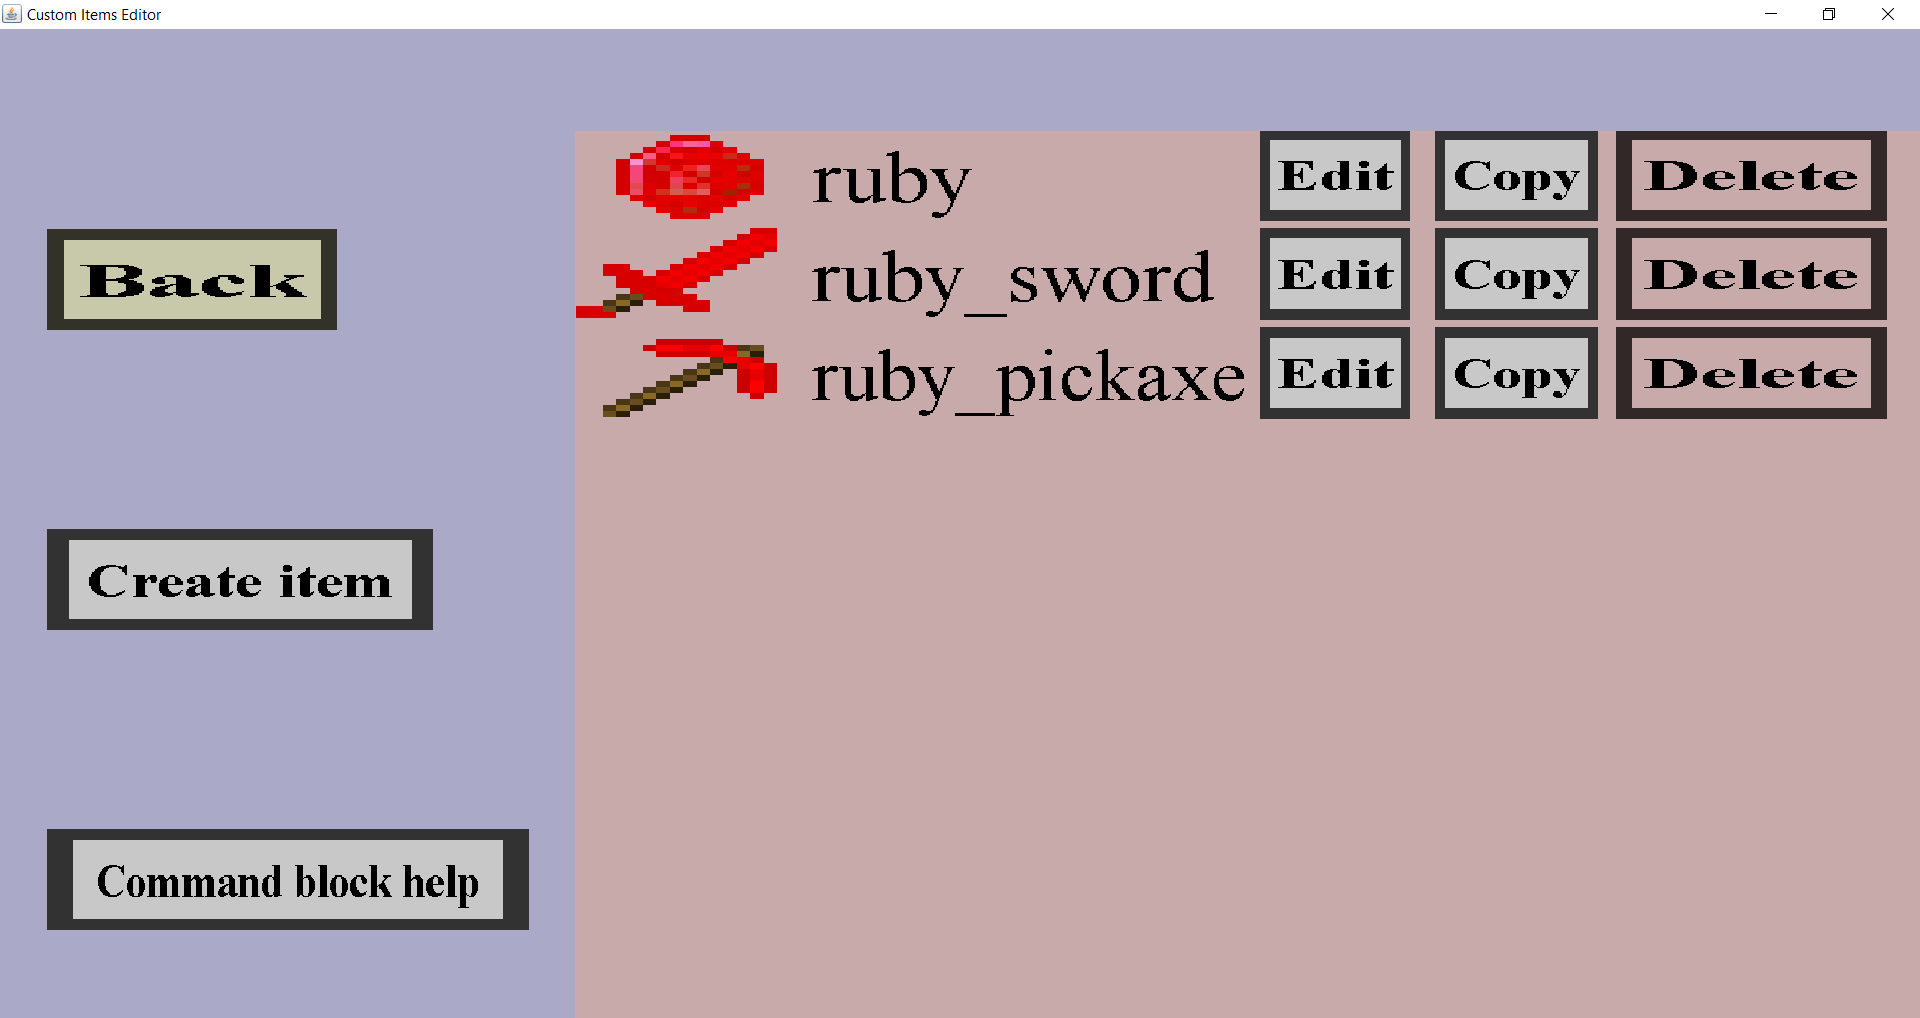
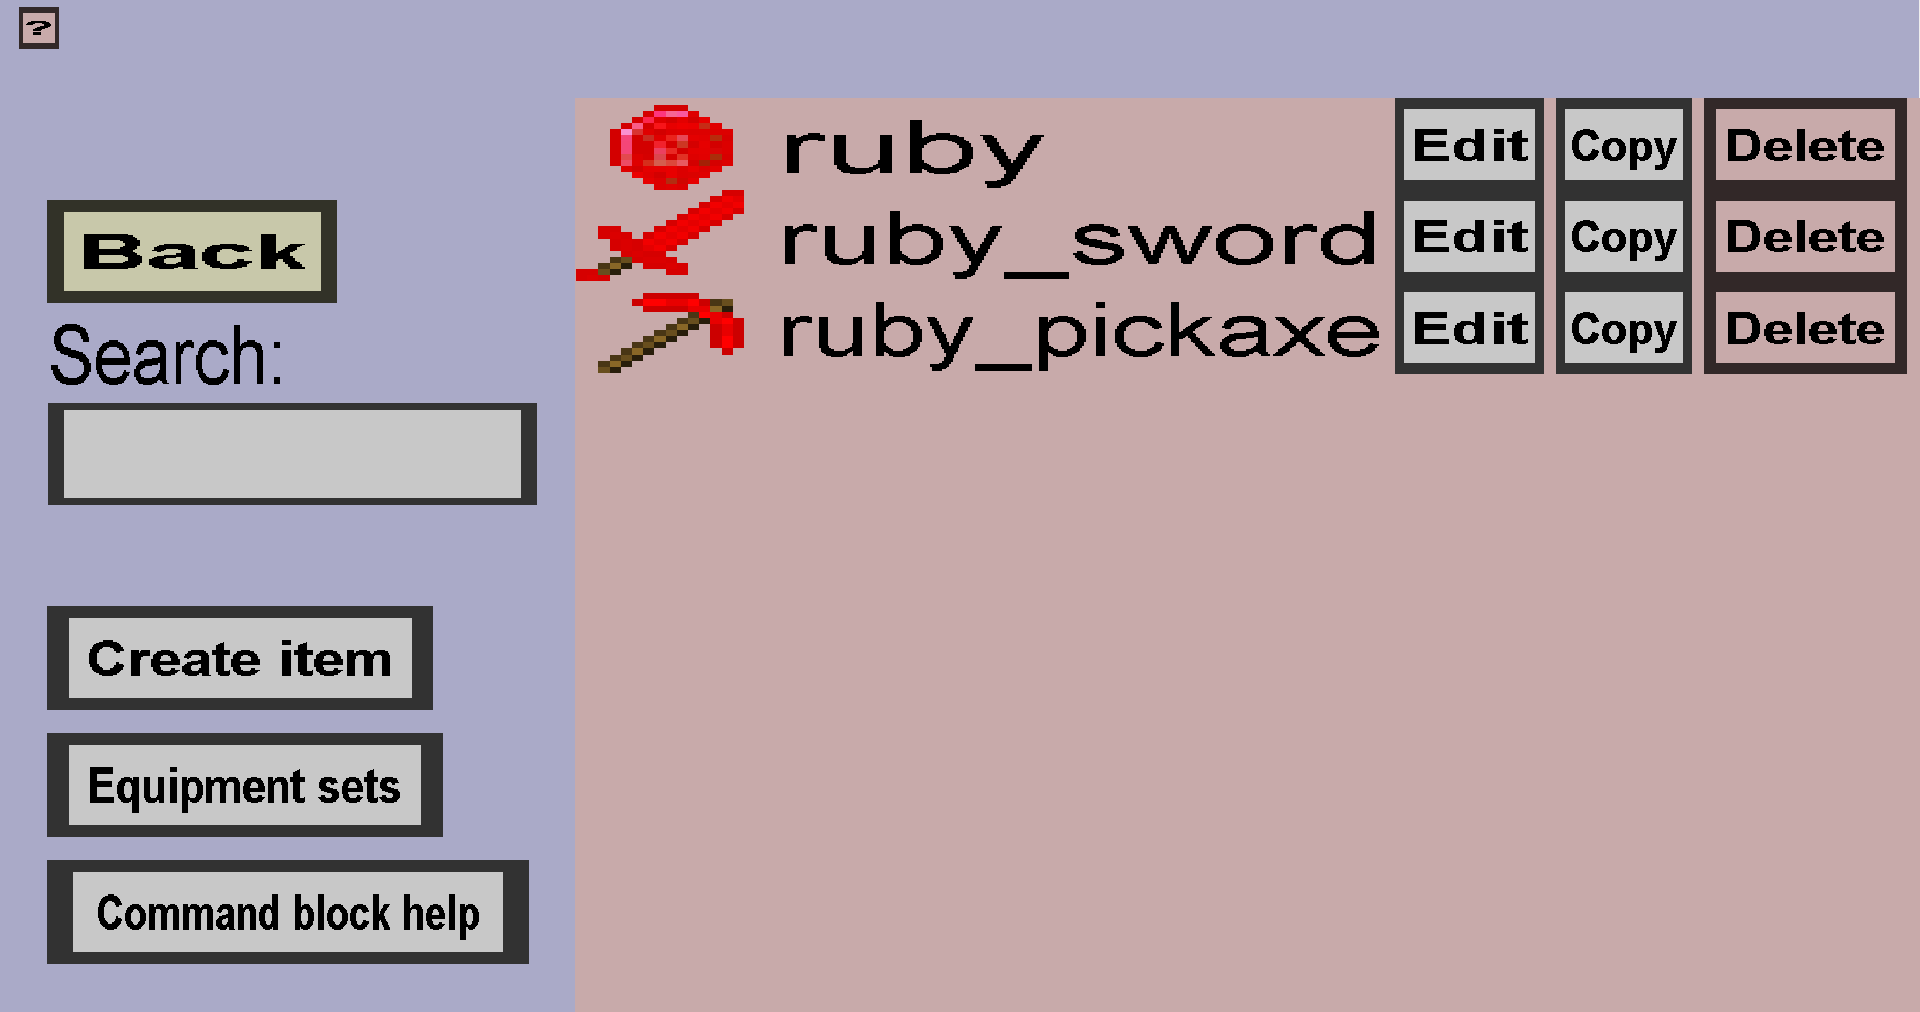
Document the equipment set (bonuses) of custom items 11

Changed region(s): [[0.2812, 0.0919, 1.0, 0.4289], [0.0, 0.1838, 0.2812, 0.9496], [0.0, 0.0, 1.0, 0.0613]]

diff --git a/custom items/editor documentation/edit menu/items/equipment/edit.html b/custom items/editor documentation/edit menu/items/equipment/edit.html
@@ -1,0 +1,67 @@
+<!DOCTYPE html>
+<html>
+    <head>
+        <title>Equipment set edit menu</title>
+        <meta charset="UTF-8" />
+    </head>
+    <body>
+        <p>
+            The equipment set edit menu can be used to edit an <i>equipment set</i>. An equipment set has a collection of
+            <i>Equipment items</i> and <i>Equipment bonuses</i>. An example equipment set is shown below:
+        </p>
+        <img src="edit.png" width="50%" />
+        <h3>Equipment items</h3>
+        <p>
+            The <i>equipment items</i> determine which items are part of the equipment set, in which slot it needs to be
+            put, and how important each of these items is. When an equipment item is in the wrong slot (for instance
+            when a player holds a chestplate in their main hand), the equipment item will <b>not</b> count towards the
+            bonuses. In the example configuration shown in the screenshot above:
+        </p>
+        <ul>
+            <li>Holding a ruby sword in your main hand is worth 1 point</li>
+            <li>Equipping a ruby chestplate in your chest slot is worth 2 points</li>
+            <li>Equipping a ruby helmet in your helmet slot is woth 1 point</li>
+            <li>Equipping a pair of ruby leggings in your leg slot is worth 2 points</li>
+            <li>Equipping a pair of ruby boots in your boots slot is worth 1 point</li>
+        </ul>
+        <p>
+            The <b>total number of points</b> determines which <i>equipment bonuses</i> players will get. When a player
+            equips ruby leggings and a ruby helmet, and holds a ruby sword in their main hand, there 
+            <b>total number of points</b> would be 2 + 1 + 1 = 4.
+        </p>
+        <h3>Equipment bonuses</h3>
+        <p>
+            The <i>Equipment bonuses</i> are the bonuses (or punishments) when a player equips the right
+            <i>equipment items</i>. Each equipment bonus has:
+        </p>
+        <ul>
+            <li>
+                A minimum value: only players whose <b>total number of points</b> is <i>at least</i> the minimum value
+                will get the bonus.
+            </li>
+            <li>
+                A maximum value: only players whose <b>total number of points</b> is <i>at most</i> the maximum value
+                will get the bonus.
+            </li>
+            <li>
+                A list of attribute modifiers: players will get these attribute modifiers while they have the right
+                number of points.
+            </li>
+            <li>
+                Damage resistances: these damage resistances will be added to the damage resistances of players who
+                have the right number of points.
+            </li>
+        </ul>
+        <p>
+            In the example shown in the screenshot, there are 2 equipment bonuses: the first one is given to players
+            whose <b>total number of points</b> is exactly 4 and the second one is given to players whose
+            total number of points is between 5 and 10. Note that the maximum number of points any player can have is
+            1 + 2 + 1 + 2 + 1 = 7 (which is smaller than 10), so the second one will be given to any player who has at 
+            least 5 points.
+        </p>
+        <p>
+            The attribute modifiers and the damage resistances can be seen by clicking on the <i>Attribute modifiers...</i>
+            and <i>Damage resistances...</i> buttons. These determine the actual bonuses that will be given to the players.
+        </p>
+    </body>
+</html>

diff --git a/custom items/editor documentation/edit menu/items/equipment/overview.html b/custom items/editor documentation/edit menu/items/equipment/overview.html
@@ -1,0 +1,41 @@
+<!DOCTYPE html>
+<html>
+    <head>
+        <title>Equipment set overview</title>
+        <meta charset="UTF-8" />
+    </head>
+    <body>
+        <p>
+            The equipment set overview shows all your <i>equipment sets</i>. An equipment set is a collection of
+            related equipment (for instance custom ruby helmet, chestplate, leggings, and boots). You can configure
+            bonuses (for instance extra armor or health) when a player (or mob) equips multiple pieces of the
+            equipment set (for instance both a ruby chestplate and helmet). This menu should look like this:
+        </p>
+        <img src="overview.png" width="50%" />
+        <p>
+            There are 3 elements on the left of this menu:
+        </p>
+        <ul>
+            <li>The <i>Back</i> button, which takes you back to the <a href="../overview.html">item overview</a>.</li>
+            <li>
+                The <i>Search</i> field, which filters out equipment sets whose description does <b>not</b> contain the
+                text within the search field. This is useful if you have lots of equipment sets.
+            </li>
+            <li>
+                The <i>Create equipment set</i> will take you to the <a href="edit.html">equipment set edit menu</a>,
+                where you can create a new equipment set.
+            </li>
+        </ul>
+        <p>
+            Furthermore, there are 3 buttons for each equipment set you have made:
+        </p>
+        <ul>
+            <li>
+                The <i>Edit</i> button will take you to the <a href="edit.html">equipment set edit menu</a>,
+                where you can edit the corresponding equipment set.
+            </li>
+            <li>The <i>Copy</i> button will (instantly) copy the corresponding equipment set.</li>
+            <li>The <i>Delete</i> button will (instantly) delete the corresponding equipment set.</li>
+        </ul>
+    </body>
+</html>

diff --git a/custom items/editor documentation/edit menu/items/overview.html b/custom items/editor documentation/edit menu/items/overview.html
@@ -23,10 +23,12 @@
             or are the repair item of a custom tool.
         </p>
         <p>
-            Then there are the remaining buttons: 'Back', 'Create item' and 'Command block help'.
+            Then there are the remaining buttons: 'Back', 'Create item', 'Equipment sets', and 'Command block help'.
             The 'Back' button will bring you back to the <a href="../index.html">item set edit menu</a>.
             The 'Create item' button will bring you to the <a href="select type.html">custom item type selection</a>
             where you need to decide what kind of custom item to create.
+            The 'Equipment sets' button will take you to the <a href="equipment/overview.html">equipment set overview</a>,
+            where you can add bonuses to players who equip multiple pieces of related custom armor.
             Finally, there is the 'Command block help' button, which will bring you to the 
             <a href="command help/index.html">command help page</a> which will show you how to use custom items in vanilla
             commands like /give and /summon.
